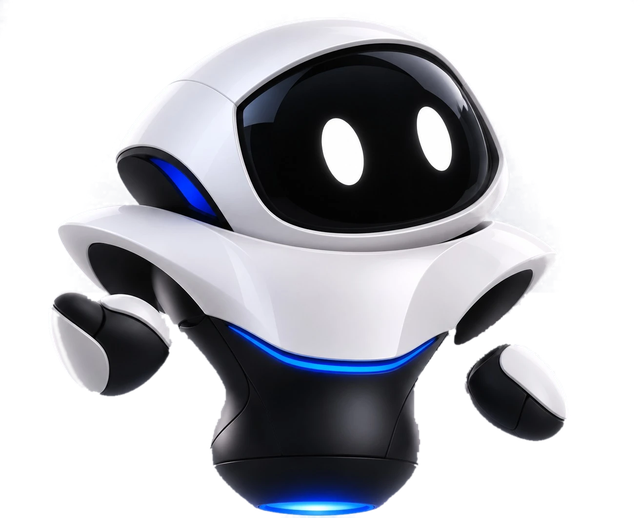
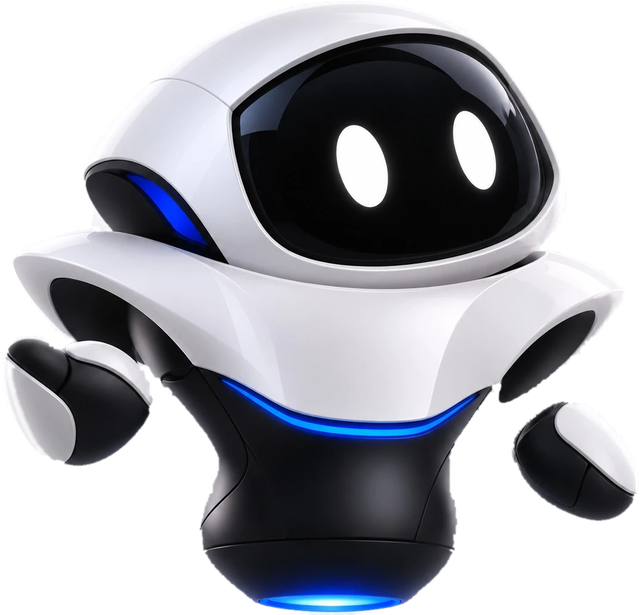
Agent Demo 137: big presenter robot bottom-centre, voice-reactive lights, demo window scaled to fit
Claude-Session: https://claude.ai/code/session_01FYKeHQW7DsZzY3zqg4cQTF

diff --git a/projects/agent-demo-137/index.html b/projects/agent-demo-137/index.html
@@ -7,6 +7,7 @@
     <script src="vendor/gsap/dist/gsap.min.js"></script>
     <script src="vendor/vo_words.js"></script>
     <script src="vendor/icons.js"></script>
+    <script src="vendor/vo_env.js"></script>
     <style>
       @font-face { font-family: "Poppins"; src: url("assets/fonts/poppins-latin-400-normal.woff2") format("woff2"); font-weight: 400; font-display: block; }
       @font-face { font-family: "Poppins"; src: url("assets/fonts/poppins-latin-700-normal.woff2") format("woff2"); font-weight: 700; font-display: block; }
@@ -25,7 +26,8 @@
       #glow { position: absolute; left: -300px; top: 260px; width: 1100px; height: 1100px; border-radius: 50%; background: radial-gradient(circle, rgba(1,204,247,0.15) 0%, rgba(1,204,247,0) 62%); }
 
       #stage { position: absolute; inset: 0; transform-origin: 540px 865px;
-        -webkit-mask-image: linear-gradient(180deg, transparent 0px, transparent 205px, #000 250px, #000 1462px, transparent 1498px); mask-image: linear-gradient(180deg, transparent 0px, transparent 205px, #000 250px, #000 1462px, transparent 1498px); }
+        -webkit-mask-image: linear-gradient(180deg, transparent 0px, transparent 205px, #000 250px, #000 1258px, transparent 1282px); mask-image: linear-gradient(180deg, transparent 0px, transparent 205px, #000 250px, #000 1258px, transparent 1282px); }
+      #fit { position: absolute; left: 0; top: 0; width: 1080px; height: 1920px; transform-origin: 540px 270px; transform: translateY(-22px) scale(0.86); }
       #cam { position: absolute; left: 0; top: 0; width: 1080px; height: 1920px; transform-origin: 0 0; }
 
       /* app window */
@@ -208,15 +210,19 @@
       #fbtn { display: inline-flex; align-items: center; gap: 12px; margin-top: 34px; height: 82px; padding: 0 46px; border-radius: 41px; background: var(--c); color: #04122f; font-size: 32px; font-weight: 700; }
       #fbtn .ic { width: 32px; height: 32px; }
       #ui { position: absolute; inset: 0; z-index: 50; pointer-events: none; }
-      #robot { position: absolute; left: 52px; top: 1606px; width: 340px; height: 292px; transform-origin: 50% 90%; opacity: 0; }
-      #robot .bob { position: absolute; inset: 0; transform-origin: 50% 80%; }
-      #robot img { position: absolute; left: 0; top: 0; width: 340px; height: auto; }
-      #robot .glow { position: absolute; left: 85px; top: 262px; width: 170px; height: 40px; border-radius: 50%;
-        background: radial-gradient(ellipse, rgba(1,204,247,0.55) 0%, rgba(1,204,247,0) 70%); }
+      #robot { position: absolute; left: 260px; top: 1404px; width: 560px; height: 538px; transform-origin: 50% 100%; opacity: 0; }
+      #robot .bob { position: absolute; inset: 0; transform-origin: 50% 85%; }
+      #robot img { position: absolute; left: 0; top: 0; width: 560px; height: auto; }
+      #robot .glow { position: absolute; left: 150px; top: 508px; width: 260px; height: 60px; border-radius: 50%;
+        background: radial-gradient(ellipse, rgba(1,204,247,0.6) 0%, rgba(1,204,247,0) 70%); }
+      #robot .chest { position: absolute; left: 190px; top: 326px; width: 230px; height: 70px; border-radius: 50%; mix-blend-mode: screen;
+        background: radial-gradient(ellipse, rgba(80,200,255,0.95) 0%, rgba(1,140,255,0.35) 45%, rgba(1,204,247,0) 72%); opacity: 0; }
+      #robot .base { position: absolute; left: 220px; top: 510px; width: 130px; height: 32px; border-radius: 50%; mix-blend-mode: screen;
+        background: radial-gradient(ellipse, rgba(120,220,255,1) 0%, rgba(1,204,247,0) 70%); opacity: 0; }
       #logo { position: absolute; left: 84px; top: 150px; width: 300px; height: auto; }
-      #caps { position: absolute; left: 80px; top: 1478px; width: 920px; height: 124px; }
-      .cap { position: absolute; left: 0; top: 0; width: 920px; height: 124px; display: flex; align-items: center; justify-content: center; text-align: center;
-        font-weight: 700; font-size: 52px; line-height: 1.16; text-transform: uppercase; letter-spacing: 0.5px; text-shadow: 0 4px 18px rgba(0,0,0,0.5); opacity: 0; }
+      #caps { position: absolute; left: 80px; top: 1282px; width: 920px; height: 118px; }
+      .cap { position: absolute; left: 0; top: 0; width: 920px; height: 118px; display: flex; align-items: center; justify-content: center; text-align: center;
+        font-weight: 700; font-size: 48px; line-height: 1.16; text-transform: uppercase; letter-spacing: 0.5px; text-shadow: 0 4px 18px rgba(0,0,0,0.5); opacity: 0; }
       .cap .in { display: block; }
       .cap s { text-decoration: none; display: inline; }
       .cap s.k { color: var(--c); }
@@ -226,7 +232,7 @@
     <div id="main" data-composition-id="main" data-start="0" data-duration="79.9" data-width="1080" data-height="1920" data-fps="30">
       <div id="scene" class="clip" data-start="0" data-duration="79.9" data-track-index="1" style="position:absolute;inset:0;" data-layout-allow-overlap data-layout-allow-occlusion>
         <div id="bg"></div><div id="grid"></div><div id="glow"></div>
-        <div id="stage">
+        <div id="stage"><div id="fit">
           <div id="cam">
             <div id="win">
               <div id="tbar">
@@ -340,11 +346,11 @@
             <div id="ripple"></div>
             <div id="cursor"></div>
           </div>
-        </div>
+        </div></div>
         <div id="cta"><div class="k">Mau sistem kayak gini di bisnis lu?</div><div class="name">AIpreneur Automation</div><div class="sb">Ngobrol langsung sama <b>tim kami</b></div>
           <div id="fbtn"><span class="ic" data-i="arrow-right"></span>Link di bio</div></div>
         <div id="ui"><img id="logo" src="assets/logo-aipreneur-white.png" alt="AIpreneur" /><div id="caps"></div>
-          <div id="robot"><div class="glow"></div><div class="bob"><img src="assets/robot/robot.png" alt="" /></div></div></div>
+          <div id="robot"><div class="glow"></div><div class="bob"><img src="assets/robot/robot.png" alt="" /><div class="chest"></div><div class="base"></div></div></div></div>
       </div>
 
       <audio id="vo" class="clip" src="assets/audio/vo.wav" data-start="0" data-duration="79.29" data-track-index="8" data-volume="1"></audio>
@@ -718,10 +724,17 @@
 
         /* robot mascot: entrance, idle float, small hop on every click */
         ft("#robot", { opacity: 0, scale: 0.4, y: 40 }, { opacity: 1, scale: 1, y: 0, duration: 0.7, ease: "back.out(1.8)" }, 0.5);
-        ft("#robot .bob", { y: 0, rotation: -2 }, { y: -10, rotation: 2, duration: 1.4, ease: "sine.inOut", repeat: Math.floor((D - 1.2) / 1.4) - 1, yoyo: true }, 1.2);
+        ft("#robot .bob", { y: 0 }, { y: -10, duration: 1.4, ease: "sine.inOut", repeat: Math.floor((D - 1.2) / 1.4) - 1, yoyo: true }, 1.2);
         ft("#robot .glow", { opacity: 1, scaleX: 1 }, { opacity: 0.55, scaleX: 0.82, duration: 1.4, ease: "sine.inOut", repeat: Math.floor((D - 1.2) / 1.4) - 1, yoyo: true }, 1.2);
-        const hop = (t) => ft("#robot", { y: 0, scale: 1 }, { keyframes: [{ y: -22, scale: 1.04, duration: 0.18, ease: "power2.out" }, { y: 0, scale: 1, duration: 0.28, ease: "bounce.out" }] }, t);
+        const hop = (t) => ft("#robot", { y: 0, scale: 1 }, { keyframes: [{ y: -8, scale: 1.03, duration: 0.16, ease: "power2.out" }, { y: 0, scale: 1, duration: 0.26, ease: "power2.out" }] }, t);
+        // voice-reactive chest light + base glow (presenter "speaking")
+        const chest = $("#robot .chest"), base = $("#robot .base"), env = window.VO_ENV || [];
+        ft({ v: 0 }, { v: 0 }, { v: 1, duration: D, ease: "none", onUpdate: () => { const f = Math.min(env.length - 1, Math.max(0, Math.round(tl.time() * 30))); const e = env[f] || 0;
+          chest.style.opacity = (0.15 + 0.85 * e).toFixed(3); base.style.opacity = (0.2 + 0.8 * e).toFixed(3); chest.style.transform = "scale(" + (0.9 + 0.25 * e).toFixed(3) + ")"; } }, 0);
+        // lean toward the demo window when something happens there
+        const lean = (t, r) => ft("#robot", { rotation: 0 }, { keyframes: [{ rotation: r, duration: 0.3, ease: "power2.out" }, { rotation: r, duration: 0.6 }, { rotation: 0, duration: 0.4, ease: "power2.inOut" }] }, t);
         [tConn, tBuild, tKlik, tCold, tRun, tAp, tF].forEach((t) => hop(t + 0.05));
+        [[tKlik, -5], [tRun, 5], [tAp, 5]].forEach(([t, r]) => lean(t - 0.1, r));
         ft("#robot", { rotation: 0 }, { keyframes: [{ rotation: 8, duration: 0.25 }, { rotation: -6, duration: 0.25 }, { rotation: 0, duration: 0.25 }] }, tCta + 0.2);
         window.__SFX = []; // filled by tools/sfx.py (static tags in HTML)
         tl.set({}, {}, D - 0.01);

diff --git a/projects/agent-demo-137/tools/cutout_robot.py b/projects/agent-demo-137/tools/cutout_robot.py
@@ -21,7 +21,7 @@ for c in range(3):
 dist = np.sqrt(((a - bg) ** 2).sum(-1))
 luma = 0.299 * a[..., 0] + 0.587 * a[..., 1] + 0.114 * a[..., 2]
 sat = a.max(-1) - a.min(-1); tint = a[..., 2] - a[..., 0]
-shadow = (yy > 600) & (luma > 110) & (luma < 232) & (sat < 40) & (tint >= 8)
+shadow = ((yy > 600) | ((xx > 1000) & (yy > 250))) & (luma > 110) & (luma < 232) & (sat < 40) & (tint >= 8)
 cand = (dist < 32) | shadow
 seen = np.zeros((H, W), bool); q = deque()
 for x in range(W):
@@ -39,7 +39,21 @@ alpha = np.ones((H, W), np.float32)
 ramp = np.clip((dist - 16) / 16, 0, 1)
 alpha[seen] = np.where(shadow[seen], 0, ramp[seen])
 m = Image.fromarray((alpha * 255).astype(np.uint8)).filter(ImageFilter.MinFilter(3)).filter(ImageFilter.GaussianBlur(1.0))
-res = Image.fromarray(np.dstack([orig, np.asarray(m)]), "RGBA")
+al = np.asarray(m).copy()
+# keep only real parts (body + two hands): drop small disconnected specks
+solid = al > 60; lab = np.zeros(al.shape, np.int32); n = 0; sizes = {}
+for sy, sx in zip(*np.nonzero(solid)):
+    if lab[sy, sx]: continue
+    n += 1; lab[sy, sx] = n; dq = deque([(sy, sx)]); c = 0
+    while dq:
+        y, x = dq.popleft(); c += 1
+        for ny, nx in ((y - 1, x), (y + 1, x), (y, x - 1), (y, x + 1)):
+            if 0 <= ny < H and 0 <= nx < W and solid[ny, nx] and not lab[ny, nx]: lab[ny, nx] = n; dq.append((ny, nx))
+    sizes[n] = c
+keep = np.isin(lab, [k for k, v in sizes.items() if v > 4000])
+near = np.asarray(Image.fromarray((keep * 255).astype(np.uint8)).filter(ImageFilter.MaxFilter(7))) > 0
+al[~near] = 0
+res = Image.fromarray(np.dstack([orig, al]), "RGBA")
 res = res.crop(res.split()[3].getbbox())
 res.save(out)
 print(res.size)

diff --git a/projects/agent-demo-137/tools/vo_env.py b/projects/agent-demo-137/tools/vo_env.py
@@ -1,0 +1,18 @@
+"""VO loudness envelope at 30 fps (0..1) for voice-reactive visuals. Output: vendor/vo_env.js (window.VO_ENV)
+Run: python3 -I tools/vo_env.py <project>"""
+import json, subprocess, sys
+from pathlib import Path
+import numpy as np
+
+P = Path(sys.argv[1] if len(sys.argv) > 1 else ".").resolve()
+raw = subprocess.run(["ffmpeg", "-v", "error", "-i", str(P / "assets/audio/vo.wav"), "-ac", "1", "-ar", "24000", "-f", "s16le", "-"],
+                     capture_output=True, check=True).stdout
+x = np.frombuffer(raw, np.int16).astype(np.float32) / 32768
+hop = 24000 // 30
+rms = np.array([np.sqrt(np.mean(x[i:i + hop] ** 2) + 1e-12) for i in range(0, len(x) - hop, hop)])
+db = 20 * np.log10(rms)
+v = np.clip((db + 45) / (np.percentile(db, 97) + 45), 0, 1)
+k = np.array([0.25, 0.5, 0.25])
+v = np.convolve(v, k, mode="same")
+(P / "vendor/vo_env.js").write_text("// generated by tools/vo_env.py\nwindow.VO_ENV = " + json.dumps([round(float(a), 3) for a in v]) + ";\n")
+print(len(v), "frames")
